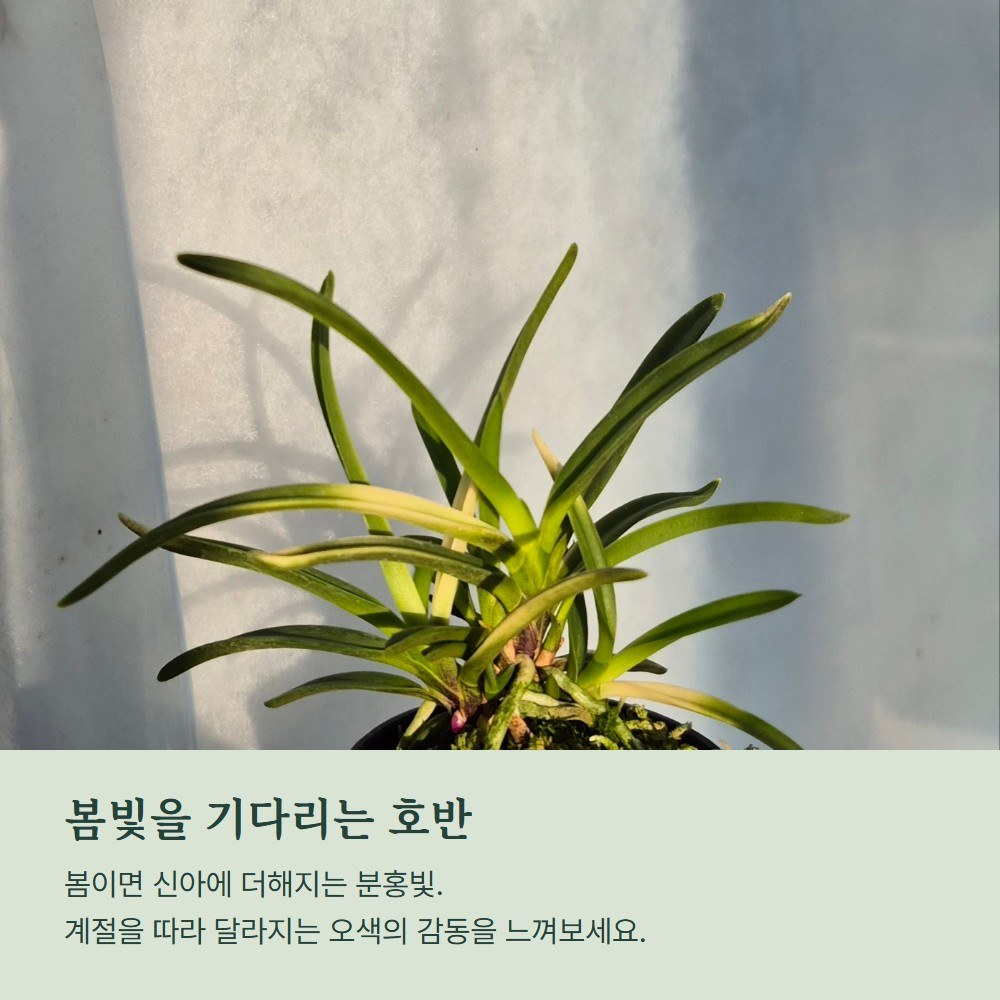
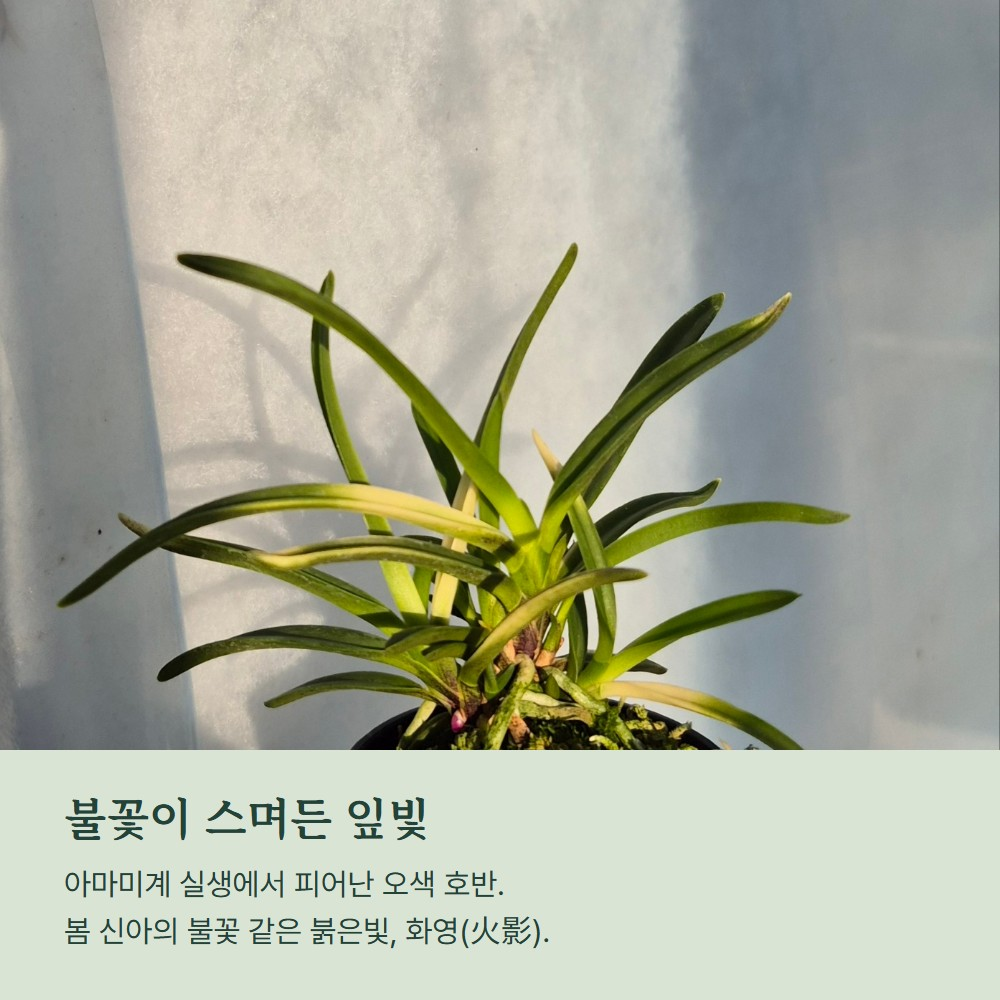
Enrich Hwayeong story with verified cultivar provenance

Changed region(s): [[0.062, 0.868, 0.651, 0.961], [0.062, 0.775, 0.465, 0.837]]

diff --git a/product/hwayeong-0001.html b/product/hwayeong-0001.html
@@ -1,13 +1,13 @@
 <!doctype html><html lang="ko"><head><meta charset="utf-8"><meta name="viewport" content="width=device-width,initial-scale=1">
 <meta name="robots" content="index,follow"><title>화영(火影) 0001 · 오색 호반·루비근 풍란 | 숯돌꽃 난농원</title>
-<meta name="description" content="화영 0001, 판매가 30,000원. 짙은 감색·백색·백황색·황색·봄철 핑크빛의 오색 호반, 루비근, 입엽성 희엽, 노수엽, 니축·월형 붙음매.">
+<meta name="description" content="화영(火影) 0001, 30,000원. 아마미계 풍란 실생에서 나타난 오색 호반. 봄에 불꽃처럼 물드는 핑크빛 신아와 루비근, 희엽·노수엽, 니축·월형의 조화.">
 <link rel="canonical" href="https://gomire-csfart.github.io/csfart-catalog/product/hwayeong-0001.html">
 <link rel="stylesheet" href="../images/hwayeong0001/hwayeong_site.css"></head><body>
 <header class="header"><div class="header-in"><a class="brand" href="../index.html"><b>CSFART</b>숯돌꽃 난농원</a><a class="mobile-all-products" href="../index.html" aria-label="카탈로그 홈으로 이동">홈</a><nav class="nav"><a class="home-link" href="../index.html" aria-label="카탈로그 홈으로 이동">홈</a><a href="#traits">화영의 매력</a><a href="#roots">루비근</a><a href="#care">관리</a><a href="#buy">구매</a></nav></div></header>
 <main class="page"><section class="hero"><div class="photo"><img src="../images/hwayeong0001/r4.jpg" alt="화영 0001 오색 호반의 잎과 루비근 생장점, 원본 실사" ></div>
-<div class="hero-copy"><span class="eyebrow">CSFART · 오색 호반 풍란</span><div class="gold-line"></div><h1>화영(火影) 0001</h1>
+<div class="hero-copy"><span class="eyebrow">불꽃이 스며든 듯한 잎빛 · 오색 호반 풍란</span><div class="gold-line"></div><h1>화영(火影) 0001</h1>
 <p class="type">화영 · 호반 · 루비근</p>
-<p class="intro">짙은 감색(紺)부터 설백·백황·황색으로 이어지는 화려한 호반. 봄에는 새싹에 핑크빛이 더해져 계절마다 색채가 달라집니다. 입엽성과 희엽의 곡선이 어우러진 풍란입니다.</p>
+<p class="intro">아마미계 풍란의 실생에서 돌연변이로 나타난 호반입니다. 짙은 감색(紺)·백색·백황색·황색이 조화를 이루며, 봄철에는 새싹에 핑크빛이 더해집니다. 화려한 엽색과 루비근을 함께 감상하는 화영입니다.</p>
 <p class="price">30,000원</p><div class="buttons"><a class="buy" href="https://smartstore.naver.com/csfart/products/13841810019" target="_blank" rel="noopener noreferrer">네이버에서 구매하기</a><a class="buy coupang" href="https://www.coupang.com/vp/products/7465587025?itemId=19469044893" target="_blank" rel="noopener noreferrer">쿠팡에서 구매하기</a></div>
 <p class="fine">붉은 생장점이 드러나는 루비근, 니축과 월형 붙음매를 지닌 품종입니다.</p></div></section>
 <section class="summary"><div><small>오색 호반</small><strong>감·백·백황·황·분홍빛</strong></div>
@@ -25,7 +25,7 @@
 <section id="roots" class="feature reverse"><div class="feature-grid"><div class="photo"><img src="../images/hwayeong0001/detail_08.jpg" alt="화영 루비근 생장점을 원형으로 확대한 실사와 연결선" ></div>
 <div class="feature-copy"><span class="eyebrow">02 · RUBY ROOT</span><div class="gold-line"></div><h2>생장점에 맺힌<br>선명한 루비빛</h2><p>실사에서 뿌리의 자라는 끝이 진분홍색으로 물들어 있습니다. 화영의 루비근을 가까이 살펴보세요.</p>
 <div class="detail"><img src="../images/hwayeong0001/r4.jpg" alt="화영 화분 근처 루비근 생장점" style="object-fit:cover;object-position:47% 72%"><span class="detail-label">진분홍 루비근 생장점</span></div></div></div></section>
-<section class="story"><div class="story-photo"><img src="../images/hwayeong0001/r7.jpg" alt="화영 희엽과 입엽의 전체적인 실루엣" ></div><div class="story-copy"><span class="eyebrow">LEAF & FORM</span><div class="gold-line"></div><h2>힘차게 서면서<br>우아하게 휘는 잎</h2><p>입엽성 잎과 부드러운 희엽의 곡선, 간간이 보이는 노수엽이 다채로운 엽성을 보여줍니다. 축은 니축, 붙음매는 월형입니다.</p></div></section>
+<section class="story"><div class="story-photo"><img src="../images/hwayeong0001/r7.jpg" alt="화영 희엽과 입엽의 전체적인 실루엣" ></div><div class="story-copy"><span class="eyebrow">불꽃이 스며든 듯한 잎빛</span><div class="gold-line"></div><h2>봄을 태우는 난초<br>화영(火影)</h2><p>아마미계 무지엽 풍란의 실생에서 돌연변이로 출현한 호반입니다. 봄에 새싹이 안토시안으로 불타오르는 듯 핑크빛을 띠는 모습에서 ‘화영(火影)’이라는 이름이 붙었습니다. 오색 호반에 루비근이 어우러지고, 부드러운 희엽 사이로 노수엽도 나타납니다.</p></div></section>
 <section id="care" class="care"><div><span class="eyebrow">CARE GUIDE</span><div class="gold-line"></div><h2>화영 관리 안내</h2></div>
 <div class="care-grid"><div><strong>빛</strong><span>밝은 간접광을 권합니다. 강한 햇빛에 호반 무늬가 탈 수 있습니다.</span></div>
 <div><strong>통풍</strong><span>공기가 잘 흐르는 장소를 선택하세요.</span></div>
